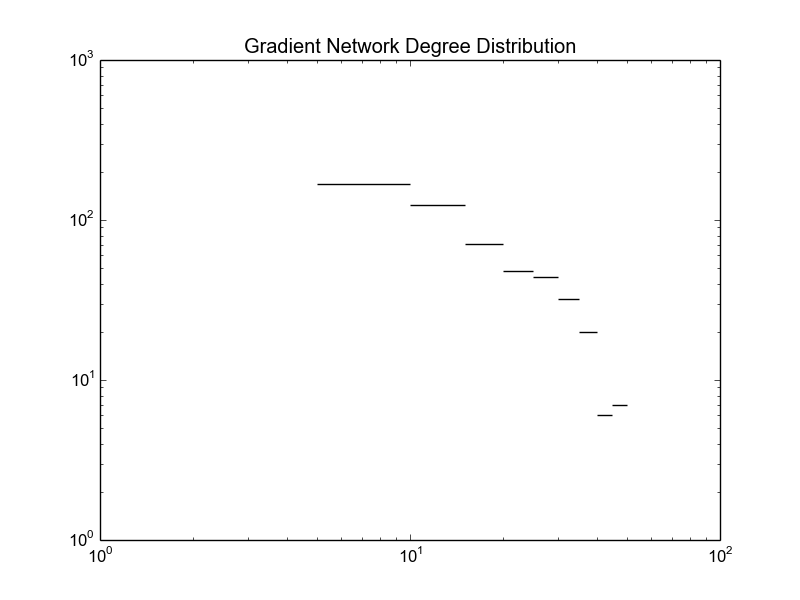
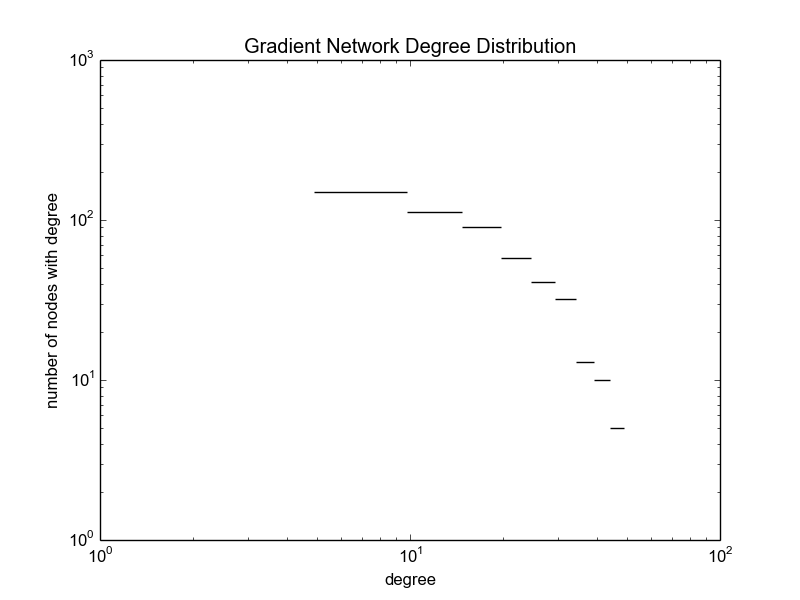
network change

diff --git a/pictures.py b/pictures.py
@@ -52,6 +52,8 @@ def sampled_gradient_degree_disp(arr, title, filename):
     degs = new_arr.sum(axis=0)
     plt.hist(degs)
     plt.title(title)
+    plt.xlabel("degree")
+    plt.ylabel("number of nodes with degree")
     plt.gca().set_xscale("log")
     plt.gca().set_yscale("log")
     plt.savefig("pics/" + filename)
